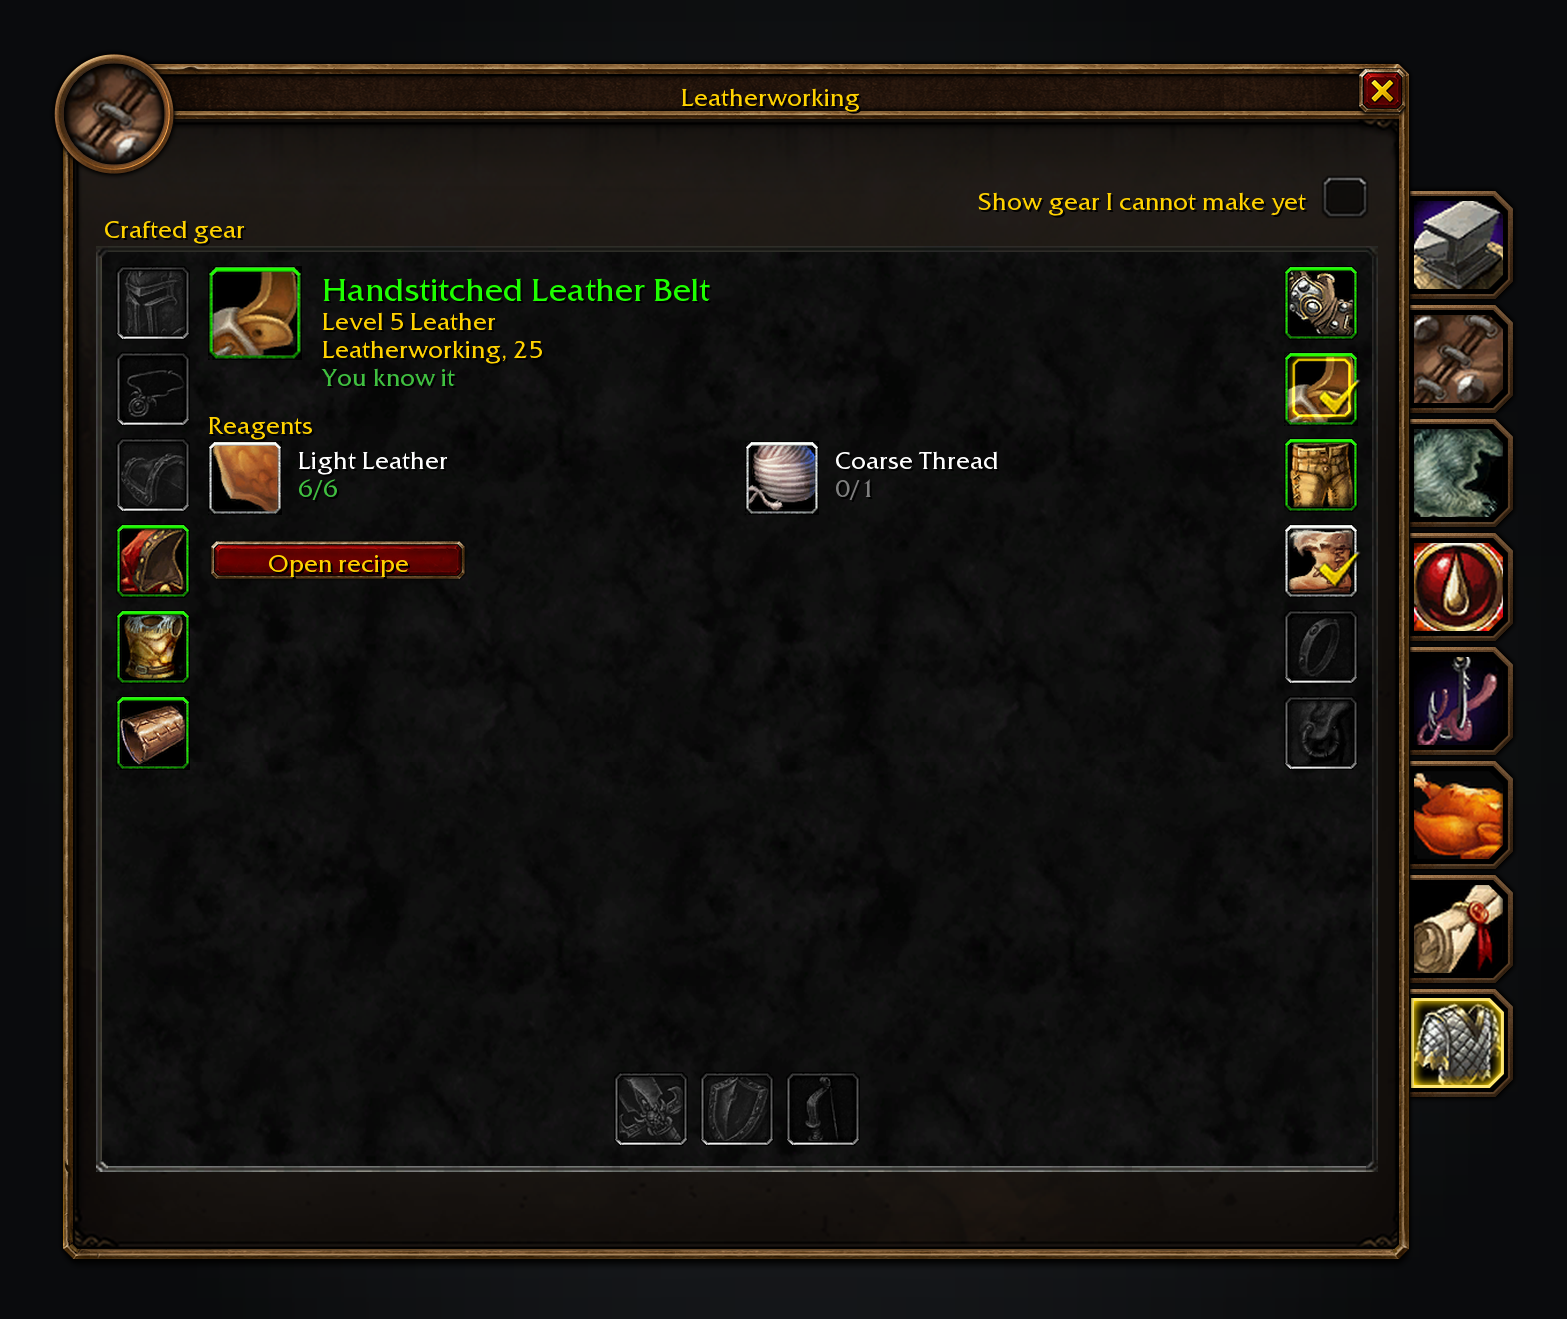
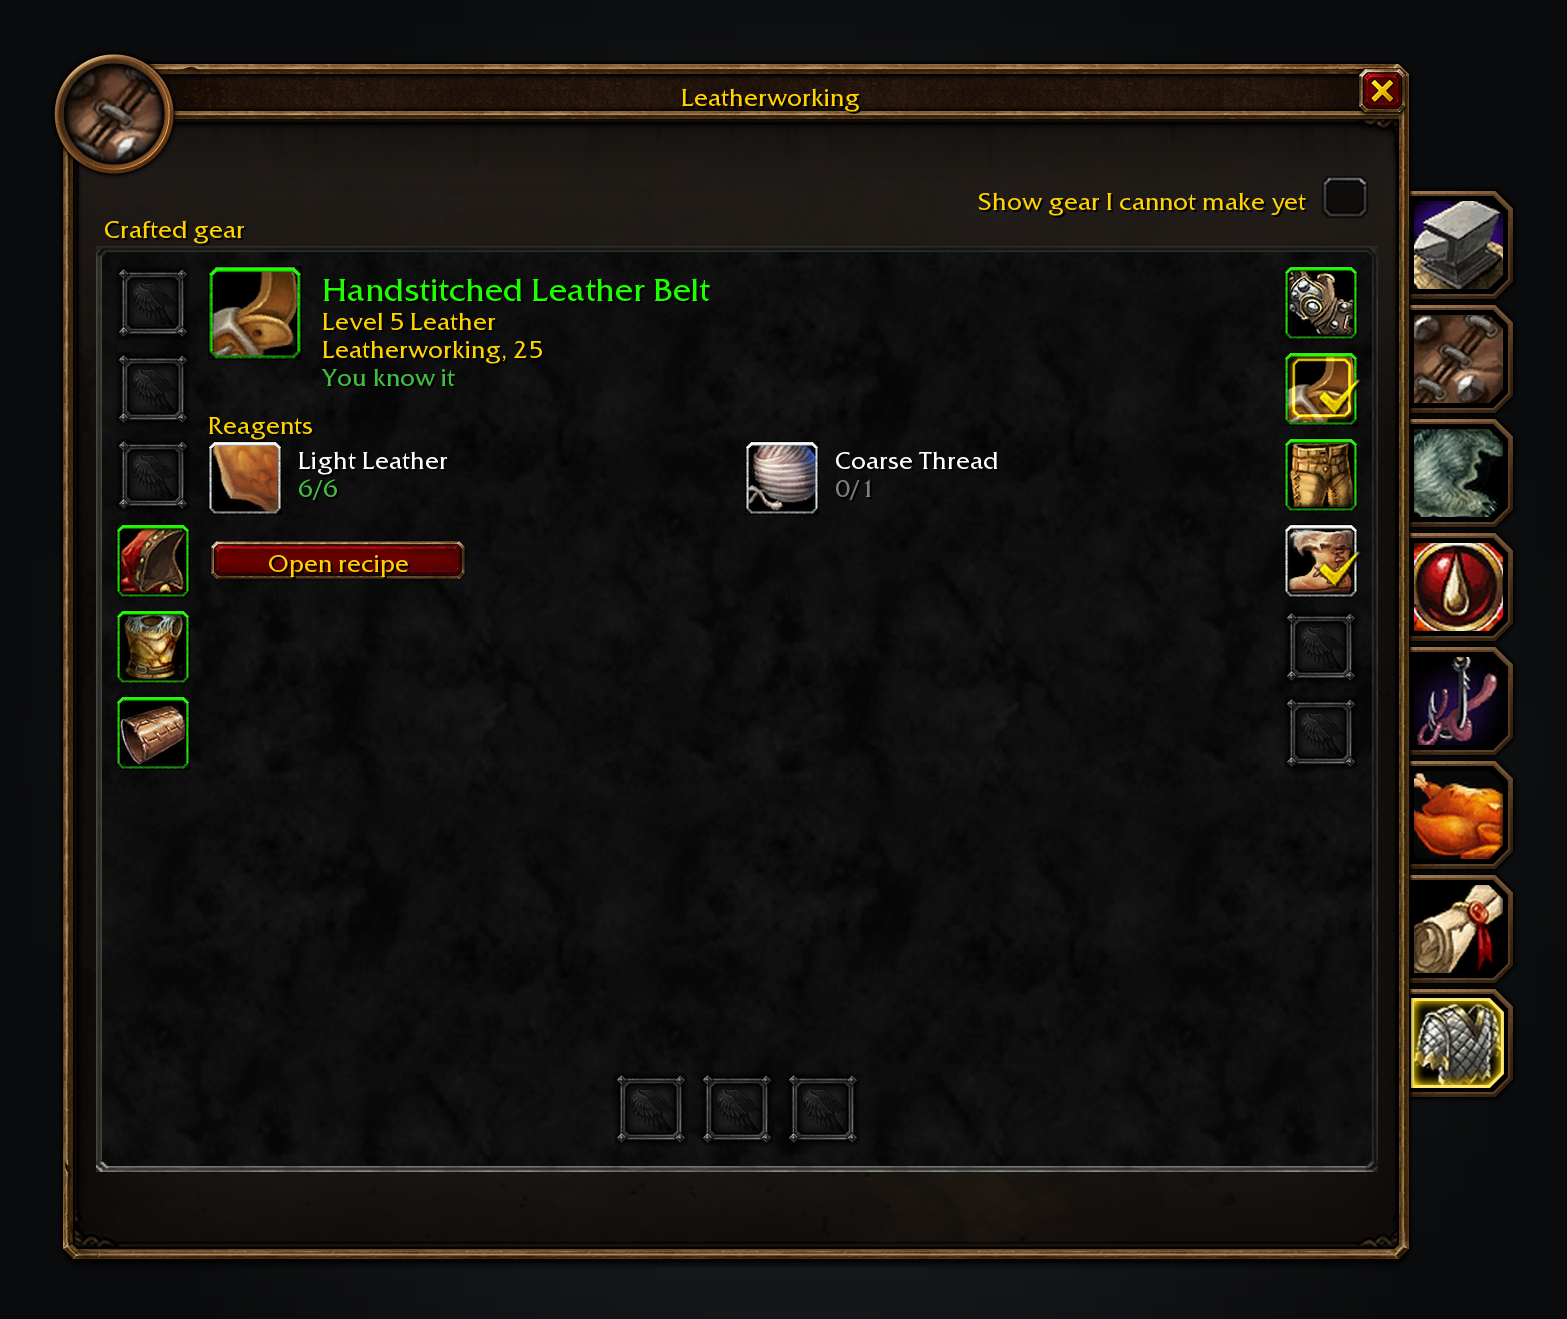
fix(screenshots): draw the empty gear slot from its atlas (#375)
`tools/screenshots.py` stopped before drawing any scene: the gear page's
empty slot used `C_PaperDollInfo.GetInventorySlotInfo`'s
`ui-paperdoll-slot-*.blp` art, and forever-core's asset gate now rejects
that as pre-Legion chrome (cjber/forever-core#190).

The mock draws the game's current `UI-Character-Info-GearSlot` atlas
instead, which is what the client shows today. `gear.png` re-rendered
and `scenes.sha256` re-recorded; the other 11 images came out
pixel-identical, so only their source digests moved.

Fixes #369

Changed region(s): [[0.0613, 0.1865, 0.1225, 0.4041], [0.7964, 0.4663, 0.8883, 0.5906], [0.3676, 0.8082, 0.5514, 0.8704]]

diff --git a/tools/screenshots.py b/tools/screenshots.py
@@ -1921,9 +1921,11 @@ def gear_slot(canvas, x, y, index, slot):
             mark = ui.atlas("checkmark-minimal")
             canvas.draw(mark, x + GEAR_ICON + 3 - mark.width, y + GEAR_ICON + 3 - mark.height)
     else:
-        art = ui.texture(f"interface/paperdoll/ui-paperdoll-slot-{GEAR_SLOT_ART[index].lower()}.blp")
+        # C_PaperDollInfo.GetInventorySlotInfo hands the client the empty-slot art, which the suite's asset
+        # gate now rejects as pre-Legion chrome, so the mock draws the game's own current slot atlas instead.
         # SetDesaturated(true) keeps the art's alpha; convert through L so the transparent corners stay clear.
-        canvas.draw(art.convert("LA").convert("RGBA"), x, y, GEAR_ICON, GEAR_ICON)
+        art = ui.atlas("UI-Character-Info-GearSlot")
+        canvas.draw(art.image.convert("LA").convert("RGBA"), x, y, GEAR_ICON, GEAR_ICON)
     if slot.get("selected"):
         canvas.draw(ui.atlas("Profession-square-frame-glow"), x, y, GEAR_ICON, GEAR_ICON, blend="ADD")
 
